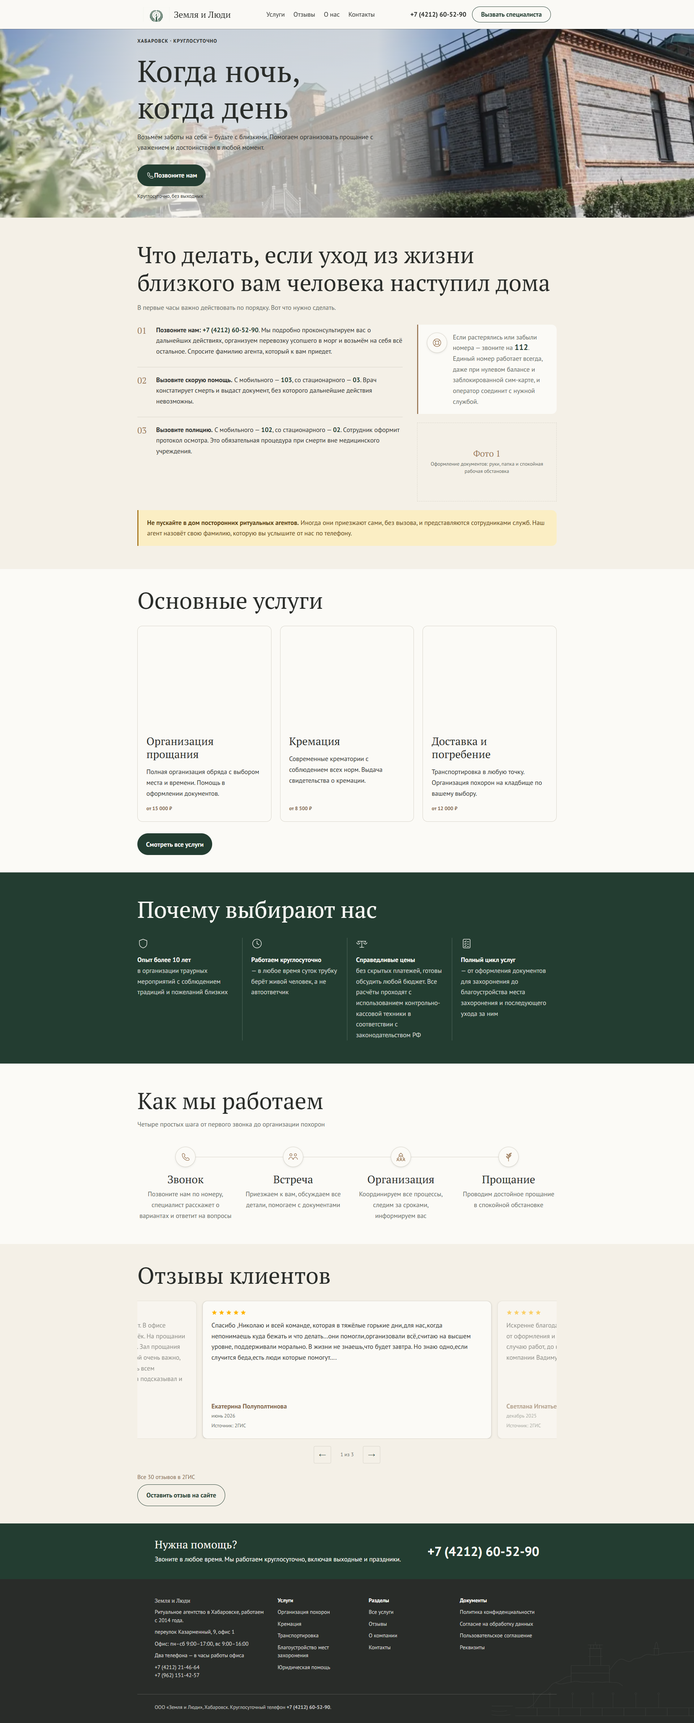
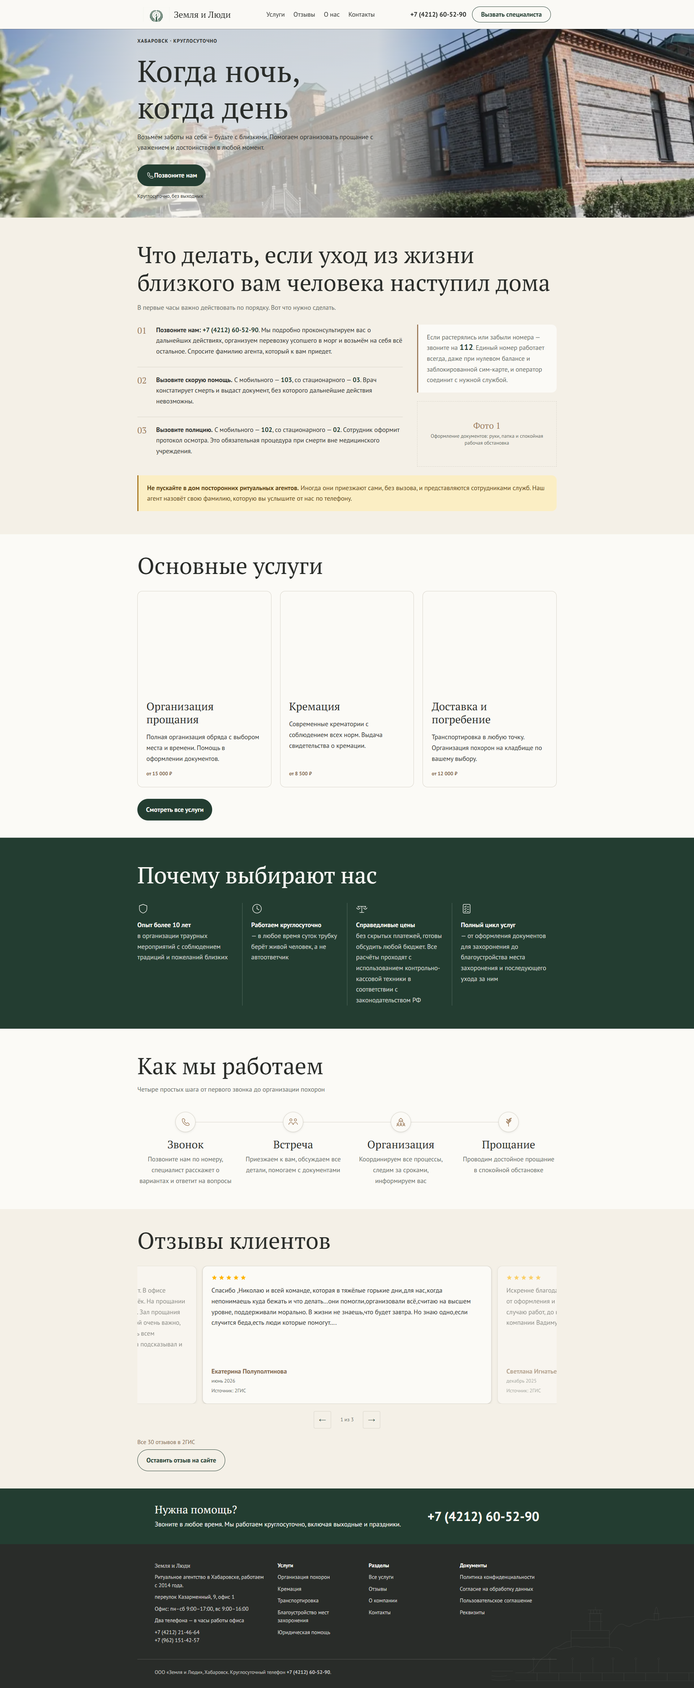
Первый раздел главной: колонка вровень с шагами, кадр площе, иконка убрана

diff --git a/wp-content/themes/razil/assets/css/main.css b/wp-content/themes/razil/assets/css/main.css
@@ -4371,16 +4371,16 @@ html:not(.rz-js) .rz-cb-open {
    Тёплый вертикальный акцент тот же, что у предупреждения ниже:
    оба блока по смыслу «обрати внимание», и разделять их двумя
    разными приёмами значило бы заводить второй словарь. */
-/* Перенос разрешён намеренно: при увеличении текста иконка съедает
-   слишком много ширины, и тогда текст встаёт под неё, а не рядом.
-   Порог переноса задан основой flex-basis у абзаца, а не шириной
-   экрана: основа задана в rem и растёт вместе с текстом, поэтому
-   строка распадается ровно тогда, когда рядом уже тесно. */
+/* Карточка примечания. Обычный поток, а не гибкая строка.
+
+   Строкой она была ради иконки слева; иконка убрана 23 сентября,
+   и вместе с ней ушли и перенос, и основа flex-basis у абзаца,
+   и min-width: 0. Всё это чинило одну болезнь: у элемента гибкой
+   раскладки наименьшая ширина равна самому длинному слову, и при
+   200 % текста «заблокированной» (280 px) распирало страницу
+   до горизонтальной прокрутки. У обычного блока такой болезни нет —
+   проверено замером после правки. */
 .rz-first-aid__note-card {
-	display: flex;
-	flex-wrap: wrap;
-	align-items: flex-start;
-	gap: 1rem;
 	padding: 1.25rem 1.5rem;
 	background-color: var(--rz-surface);
 	border-left: 3px solid var(--rz-fact);
@@ -4389,19 +4389,6 @@ html:not(.rz-js) .rz-cb-open {
 
 .rz-first-aid__note-card > * {
 	margin-block: 0;
-}
-
-/* Иконка равняется по первой строке текста, а не по верхней кромке
-   абзаца: у кружка 56 px центр стоит на 28, у первой строки —
-   на 13, и без поправки круг заметно съезжает вверх.
-
-   Цвет не трогается: у всего набора иконок он --rz-fact, и это
-   осознанное правило прошлого прогона — контуры и метки от 24 px
-   берут --rz-fact, текст помельче --rz-fact-text. Замер на подложке
-   карточки: #9B7958 на #FBFAF6 — 3.82:1, выше порога 3.0
-   для нетекстовых элементов, а иконка к тому же декоративная. */
-.rz-first-aid__note-card .rz-icon {
-	margin-top: 0.125rem;
 }
 
 /* Номер 112 крупнее остального текста примечания: в тяжёлую минуту
@@ -4442,18 +4429,10 @@ html:not(.rz-js) .rz-cb-open {
    Правило перебивает .rz-first-aid__note { margin-top: 1.5rem !important }
    выше по файлу, поэтому тоже с !important — иначе не достать.
 
-   min-width: 0 — та же ловушка, что и minmax(0, 1fr) у сеток.
-   У flex-элемента наименьший размер по умолчанию равен min-content,
-   то есть самому длинному слову; «заблокированной» при 200% текста
-   занимает 280 px, и абзац отказывался сжиматься ниже — страница
-   получала горизонтальную прокрутку 507 px при окне 375. Перенос
-   по буквам в теме уже разрешён (overflow-wrap: break-word), но
-   на наименьший размер он не влияет: снимать ограничение нужно
-   отдельно. Замер после правки — в отчёте. */
+   Ни flex-основы, ни min-width: 0 здесь больше нет — они были
+   нужны, пока карточка была гибкой строкой с иконкой. */
 .rz-first-aid__note-card .rz-first-aid__note {
 	margin-top: 0 !important;
-	flex: 1 1 10rem;
-	min-width: 0;
 }
 
 /* Крупные номера 01-03 вместо кружков со счётчиком (§6.3, §8.4).

diff --git a/wp-content/themes/razil/templates/front-page.html b/wp-content/themes/razil/templates/front-page.html
@@ -84,14 +84,17 @@
 		<!-- Правая колонка: карточка с примечанием про 112 и фотография
 		     под ней. Карточка и снимок — соседи, а не вложение: тёплая
 		     полоса слева помечает именно примечание, и тянуть её вдоль
-		     фотографии значило бы пометить ею и снимок. -->
+		     фотографии значило бы пометить ею и снимок.
+
+		     Иконки в карточке нет намеренно. Она тут была и убрана
+		     23 сентября: в колонке из двух частей кружок читался
+		     третьим, посторонним элементом, а не частью системы.
+		     Заодно ушла причина, по которой карточка была гибкой
+		     строкой с переносом. -->
 		<!-- wp:group {"className":"rz-first-aid__aside"} -->
 		<div class="wp-block-group rz-first-aid__aside">
 			<!-- wp:group {"className":"rz-first-aid__note-card"} -->
 			<div class="wp-block-group rz-first-aid__note-card">
-				<!-- wp:html -->
-				<span class="rz-icon"><svg xmlns="http://www.w3.org/2000/svg" viewBox="0 0 40 40" width="40" height="40" fill="none" stroke="currentColor" stroke-width="1.5" stroke-linecap="round" stroke-linejoin="round" aria-hidden="true" focusable="false"><circle cx="20" cy="20" r="15"/><circle cx="20" cy="20" r="7"/><path d="M9.4 9.4 L15 15"/><path d="M30.6 9.4 L25 15"/><path d="M9.4 30.6 L15 25"/><path d="M30.6 30.6 L25 25"/></svg></span>
-				<!-- /wp:html -->
 				<!-- wp:paragraph {"className":"rz-first-aid__note"} -->
 				<p class="rz-first-aid__note">Если растерялись или забыли номера — звоните на <a href="tel:112">112</a>. Единый номер работает всегда, даже при нулевом балансе и заблокированной сим-карте, и оператор соединит с нужной службой.</p>
 				<!-- /wp:paragraph -->
@@ -99,7 +102,7 @@
 			<!-- /wp:group -->
 
 			<!-- wp:html -->
-			<div class="rz-photo-slot" data-slot="1" style="--rz-slot-ratio: 16/9">
+			<div class="rz-photo-slot" data-slot="1" style="--rz-slot-ratio: 21/9">
 				<span class="rz-photo-slot__num">Фото 1</span>
 				<span class="rz-photo-slot__hint">Оформление документов: руки, папка и спокойная рабочая обстановка</span>
 			</div>

diff --git a/_reports/fixes-uslugi-2026-09-23.md b/_reports/fixes-uslugi-2026-09-23.md
@@ -15,7 +15,7 @@
 | Задача | Состояние | Вердикт |
 |--------|-----------|---------|
 | 1. Скругления у фотографий | завершена | ПРОШЁЛ |
-| 2. Раздел «Что делать, если…» на главной | не начата | — |
+| 2. Раздел «Что делать, если…» на главной | завершена | ПРОШЁЛ |
 | 3. Каталог услуг: строчные карточки | не начата | — |
 | 4. Долг: подписи заглушек за рамкой | не начата | — |
 | 5. Общие компоненты страниц услуг | не начата | — |
@@ -303,3 +303,213 @@ main.css:408   .wp-block-image img { border-radius: var(--rz-radius-card) }
 замечаний 0.
 
 **Вердикт задачи 1: ПРОШЁЛ.**
+
+---
+
+## Задача 2 — Раздел «Что делать, если…» на главной
+
+### Разведка: замер симптома
+
+Замер до правки (координаты от верха документа):
+
+| Ширина | Низ последнего шага | Низ карточки 112 | Низ заглушки | Низ рамки шагов | Верх жёлтой плашки |
+|--------|---------------------|------------------|--------------|-----------------|--------------------|
+| 1366 | 1235 | 1098 | 1339 | 1339 | 1363 |
+| 1920 | 1283 | 1145 | 1387 | 1387 | 1411 |
+| 1024 | 1232 | 1065 | 1333 | 1333 | 1357 |
+
+Разбег нижних кромок — **241 px** на 1366 и 1920, 208 px на 1024.
+Задание оценивало его «примерно в 160 px» по снимку; замер даёт
+больше.
+
+Что показывают числа. Рамка блока шагов кончается на 1339, а
+последний пункт — на 1235: **104 px внутри левой колонки пустые**.
+Это не отбивка, а растяжка: ряд сетки тянется по высоте правой
+колонки (`align-items: stretch`), а правая колонка выше левой,
+потому что в ней карточка 248 + зазор 24 + кадр 217 = 489 против
+393 у шагов. Глазу это читается как три кромки подряд — последний
+шаг, карточка, кадр — и ни одна не совпадает с другой.
+
+Вторая находка: внутри заглушки **106 px пустоты** на 1366 (рамка
+217, содержимому надо 111). На 768 — 303 px пустоты при рамке 414.
+
+### Что сделано
+
+**1. Иконка спасательного круга убрана.** Удалён блок `wp:html`
+с ней в `templates/front-page.html` и правило
+`.rz-first-aid__note-card .rz-icon` в `main.css`.
+
+**2. Вместе с иконкой убран весь гибкий аппарат карточки.**
+Карточка была `display: flex` с переносом, у абзаца стояли
+`flex: 1 1 10rem` и `min-width: 0`. Всё это лечило одну болезнь:
+у элемента гибкой раскладки наименьшая ширина равна самому длинному
+слову, и при 200 % текста «заблокированной» (280 px) распирало
+страницу до горизонтальной прокрутки. Иконки нет — карточка стала
+обычным блоком, и болезнь ушла вместе с причиной. Проверено
+замером, а не рассуждением: `scrollWidth` = `clientWidth`
+на 375, 768, 1024, 1366 и 1920 при 200 %.
+
+**3. Пропорция заглушки 16:9 → 21:9.** Арифметика: на 1366 и 1920
+правой колонке до нижней кромки шагов остаётся 385 px, карточка
+без иконки занимает 188, зазор 24 — кадру остаётся 173, то есть
+2.23:1. Объявлено 21:9 = 2.33 — чуть площе остатка. Это сделано
+намеренно: пока кадр по своей пропорции ниже остатка, высоту ряда
+задают шаги, а кадр дотягивается до их кромки через
+`flex: 1 1 auto`. Объяви я ровно 2.23, при малейшем изменении длины
+текста кадр начал бы свисать.
+
+### Затронутые решения прошлых прогонов (И17)
+
+**Решение 9 отчёта от 21 сентября** — «сознательный обмен: 205 px
+брошенного места справа, в подкрашенной колонке, превратились
+в 104 px обычной отбивки слева, под последним шагом, где ни фона,
+ни рамок нет вовсе». **Отменено.** Почему теперь иначе: тот обмен
+оценивался по одному признаку — заметности пустоты. Задание
+смотрит на другой признак — ритм: три несовпадающие нижние кромки
+подряд, за которыми идёт четвёртая линия жёлтой плашки. 104 px
+пустоты действительно не бросаются в глаза сами по себе, но именно
+они делают кромки несовпадающими. Теперь колонка кончается там же,
+где шаги, и кромок остаётся две: общая нижняя линия обеих колонок
+и верх жёлтой плашки.
+
+**Решение 3 того же отчёта** — иконка спасательного круга,
+нарисованная по И15. **Отменено заданием прямо:** «Иконку
+спасательного круга УБРАТЬ. По умолчанию — удалить совсем».
+Композиции, где кружок читался бы частью системы, я не нашёл:
+в колонке из двух частей — карточка и кадр — он был третьим
+элементом другого рода, и после его удаления карточка стала ровно
+тем, чем является, — выноской с тёплой полосой.
+
+**Решение 11 того же отчёта** — `min-width: 0` и `flex-basis: 10rem`
+против горизонтальной прокрутки при 200 %. **Снято вместе
+с причиной**, а не молча: причиной была гибкая раскладка карточки,
+заведённая ради иконки. Замер после снятия подтверждает, что
+прокрутка не вернулась.
+
+**Решение 2 того же отчёта** — тёплая полоса на карточке, а не
+на колонке. **Не тронуто.**
+
+**Решение 10** — `z-index: 1` у номера 112. **Не тронуто**,
+перепроверено пробоем по четырём кромкам.
+
+**Решение 12** — у заглушки нет своего `min-height`. **Не тронуто.**
+
+### Замеры и критерии приёмки
+
+**К1. Нижняя кромка правой колонки совпала с нижней кромкой блока
+шагов.**
+
+| Ширина | Было: колонка / рамка шагов | Стало: колонка / рамка шагов | Расхождение |
+|--------|------------------------------|------------------------------|-------------|
+| 1024 | 817..1333 / 1333 | 817..1240 / 1240 | 0 px |
+| 1366 | 850..1339 / 1339 | 850..1243 / 1243 | 0 px |
+| 1920 | 898..1387 / 1387 | 898..1291 / 1291 | 0 px |
+
+Совпадение было и раньше — но за счёт растяжки левой колонки:
+рамка шагов тянулась на 104 px ниже последнего пункта. Теперь
+высоту ряда задают сами шаги (393 px = их собственная высота),
+и пустой растяжки внутри левой колонки нет. Раздел стал короче
+на 96 px, жёлтая плашка поднялась с 1363 на 1267.
+
+**К2. Пустота внутри заглушки уменьшена на всех ширинах.**
+
+| Ширина | Рамка было | Рамка стало | Пустоты было | Стало |
+|--------|-----------|-------------|--------------|-------|
+| 375 | 343x193 | 343x147 | 82 px | 36 px |
+| 768 | 736x414 | 736x315 | 303 px | 204 px |
+| 1024 | 328x185 | 328x151 | 73 px | 40 px |
+| 1366 | 386x217 | 386x181 | 106 px | 70 px |
+| 1920 | 386x217 | 386x181 | 106 px | 70 px |
+
+Полностью убрать пустоту внутри заглушки нельзя, и это надо
+сказать прямо: заглушка по условию И14 держит геометрию будущего
+снимка — «после подстановки настоящего кадра вёрстка не сдвинется
+ни на пиксель». Рамка, ужатая до размера подписи, этого делать
+перестанет. Задание предлагает выбор — «привести размер
+к содержимому либо к остатку колонки»; выбран остаток колонки.
+Худший остаток — 768 px, где колонка одна и остатка нет вовсе:
+там размер задаёт объявленная пропорция.
+
+**К3. Зона нажатия номера 112.** Пробой `elementFromPoint`
+по четырём кромкам после правки:
+
+```
+  375px z100 зона 44x61  верх:да низ:да лево:да право:да
+  768px z100 зона 44x61  верх:да низ:да лево:да право:да
+ 1024px z100 зона 44x61  верх:да низ:да лево:да право:да
+ 1366px z100 зона 44x61  верх:да низ:да лево:да право:да
+ 1920px z100 зона 44x61  верх:да низ:да лево:да право:да
+  375px z200 зона 57x99  верх:да низ:да лево:да право:да
+  768px z200 зона 57x99  верх:да низ:да лево:да право:да
+ 1366px z200 зона 57x99  верх:да низ:да лево:да право:да
+```
+
+8 срезов из 8 без промахов. Номер по-прежнему крупный (22 px
+при 100 %) и зелёный, контраст 11.28:1 — не менялся.
+
+**К4. На 760 px и ниже колонка под шагами.** На 375 и 768 колонка
+идёт после шагов (замер: на 768 карточка начинается на 1264, низ
+шагов 1240).
+
+**К5. Раздел не стал карточкой с тенью.** Тени нет ни у колонки,
+ни у карточки, ни у раздела — правил `box-shadow` в этой части
+не добавлялось.
+
+**К6. Просмотрено глазами, 1366.** Слева три шага, справа карточка
+с примечанием и под ней широкий кадр; нижняя линия у кадра и
+у последнего шага общая. Карточку помечает тёплая полоса слева,
+номер 112 крупный. Иконки нет — карточка выглядит выноской,
+а не блоком с наклейкой. Ниже во всю ширину жёлтая плашка
+предупреждения, её верх ровно на 24 px ниже общей кромки колонок.
+На 768 всё то же в один столбец: шаги, карточка, кадр во всю
+ширину, плашка.
+
+### Протокол проверки
+
+**П1 `git diff --stat`** — два файла темы:
+
+```
+ wp-content/themes/razil/assets/css/main.css       | 43 +++++-----------
+ wp-content/themes/razil/templates/front-page.html | 13 +++--
+```
+
+**П2 круговорот блоков:** `--- ИТОГО: проверено 36, упало 0`,
+`templates/front-page.html` (25 997 байт).
+
+**П3 побайтовые проверки:** оба файла CRLF, без BOM, прошли.
+
+**П4 и П5 текст, телефоны, суммы:** `--- ПРОШЁЛ: текст, телефоны
+и суммы совпадают`. Предложений 726 → 726, пропало 0, появилось 0.
+Удаление иконки текста не касается: SVG в снимок не попадает.
+
+**П6 замер переноса** — см. К1 и К2, пять ширин.
+
+**П7 проба перекрытия** — см. К3; обход главной `audit.mjs`
+на пяти ширинах: `0 из 5`.
+
+**П8 выход содержимого за рамку:** внутри заглушки подпись
+помещается на всех пяти ширинах (К2, пустота положительная
+везде).
+
+**П9 скриншоты:** `_reports/shots/after2/`; просмотрены
+и описаны вырезки раздела на 1366 и 768 (К6).
+
+**П10 регрессия по 200 %:** 19 страниц на 375 и 768 —
+`0 из 38`; горизонтальной прокрутки нет на всех пяти ширинах.
+
+**П11 регрессия по главной:** `audit.mjs --only home` на пяти
+ширинах — `0 из 5`; скруглений медиа после задачи 1 по-прежнему
+0.
+
+**П12 консоль:** ошибок нет.
+
+**П13 добавленные `!important`:** ни одного; один существующий
+(`margin-top: 0 !important` у примечания) оставлен на месте.
+
+**П14 `overflow` на `.rz-callout--warn`:** 0 правил.
+
+**П15 клавиатура:** на 375 и 1366 обводка видна на всех шагах,
+кроме `iframe` карты Яндекса — это прежнее, стороннее и
+задокументированное.
+
+**Вердикт задачи 2: ПРОШЁЛ.**

diff --git a/_reports/photo-slots.md b/_reports/photo-slots.md
@@ -39,13 +39,21 @@
 
 | № | Блок | Стороны | Что должно быть изображено | Кадрирование |
 |---|------|---------|----------------------------|--------------|
-| Фото 1 | боковая колонка раздела первых действий, под карточкой с примечанием про 112 | 16:9 | Оформление документов: руки, папка и спокойная рабочая обстановка | Горизонтальный кадр без лиц крупным планом. Спокойная сцена за столом: бумаги, папка, руки. Без постановочной драматизации (§22). Кадр стоит рядом с инструкцией на тяжёлую минуту — он должен успокаивать, а не иллюстрировать горе |
+| Фото 1 | боковая колонка раздела первых действий, под карточкой с примечанием про 112 | 21:9 | Оформление документов: руки, папка и спокойная рабочая обстановка | Горизонтальный кадр без лиц крупным планом. Спокойная сцена за столом: бумаги, папка, руки. Без постановочной драматизации (§22). Кадр стоит рядом с инструкцией на тяжёлую минуту — он должен успокаивать, а не иллюстрировать горе. Пропорция широкая: важное держать в середине кадра по высоте — на широком экране рамка добирает остаток высоты колонки и оказывается на 3–5 % ниже объявленной |
 
 На узком экране и на планшете кадр разворачивается во всю ширину
-колонки (736x414 на 768 px, 343x193 на 375 px), на широком стоит
-в правой колонке 386x217 и добирает остаток её высоты. Настоящий
-снимок нужно готовить под 16:9; при другой пропорции раскладка
+колонки (736x315 на 768 px, 343x147 на 375 px), на широком стоит
+в правой колонке 386x181 и добирает остаток её высоты. Настоящий
+снимок нужно готовить под 21:9; при другой пропорции раскладка
 сдвинется.
+
+Пропорция изменена 23 сентября с 16:9 на 21:9. Причина
+арифметическая: правая колонка обязана кончаться там же, где
+кончается блок шагов, а на это остаётся 385 px на 1366 и 1920.
+Карточка примечания занимает 188 px, зазор 24 — кадру остаётся 173,
+то есть 386x173, или 2.23:1. Объявлено 21:9 (2.33): чуть площе
+остатка, поэтому высоту ряда задают шаги, а кадр дотягивается
+до их нижней кромки ровно, не свисая ниже.
 
 Остальные четыре изображения главной — настоящие фотографии
 и остаются на месте: офис на первом экране, оформление документов,
